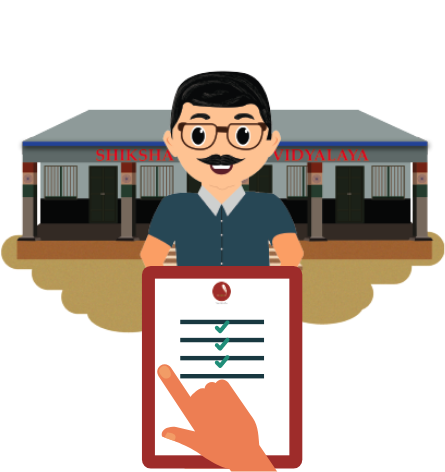
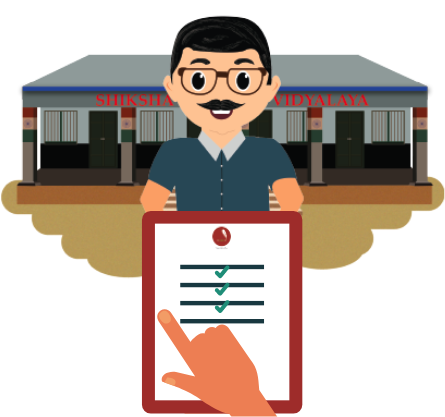
Welcome page bug fix

diff --git a/src/pages/welcome/welcome.scss b/src/pages/welcome/welcome.scss
@@ -51,7 +51,8 @@ page-welcome {
     }
 
     .slideTwoMaxSize {
-        max-width: 300px;
+        // max-width: 300px;
+        max-height: 300px;
     }
 
     .poweredBy {
@@ -64,7 +65,7 @@ page-welcome {
     }
 
     .maxSize {
-        max-width: 350px;
+        max-height: 300px;
     }
 
     .mainContainer {
